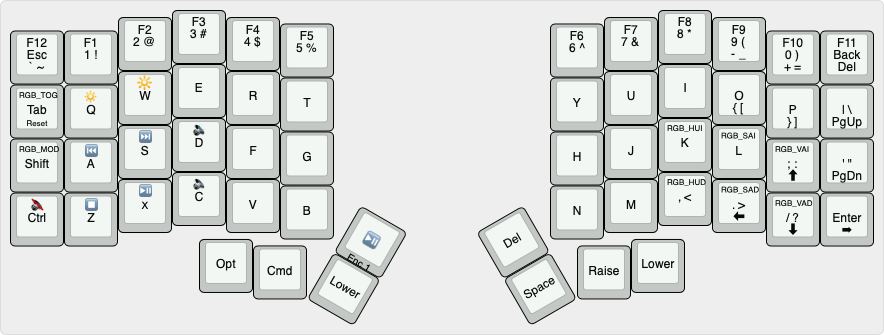
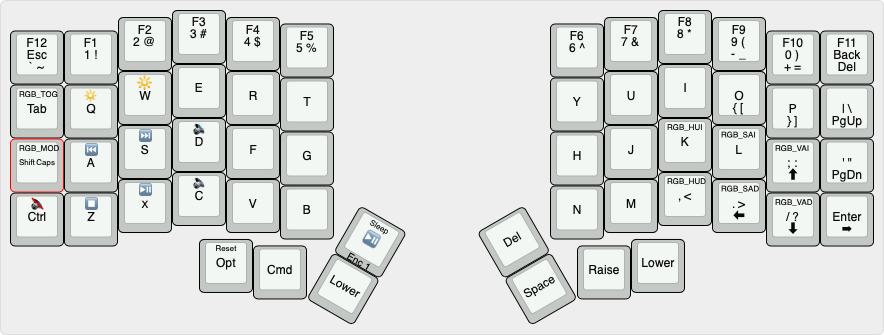
Fine tune and add Tap Dance
* Move reset and sleep to the RAISE layer
* Tap Dance so left shift can also be capslock

diff --git a/keyboards/keebio/iris/keymaps/barrettclark/keymap.c b/keyboards/keebio/iris/keymaps/barrettclark/keymap.c
@@ -1,6 +1,5 @@
 #include QMK_KEYBOARD_H
 
-
 #define _QWERTY 0
 #define _LOWER 1
 #define _RAISE 2
@@ -11,6 +10,17 @@ enum custom_keycodes {
   LOWER,
   RAISE,
   ADJUST,
+};
+
+// Tap Dance declarations
+enum {
+    TD_LS_CL,
+};
+
+// Tap Dance definitions
+qk_tap_dance_action_t tap_dance_actions[] = {
+    // Tap once for Escape, twice for Caps Lock
+    [TD_LS_CL] = ACTION_TAP_DANCE_DOUBLE(KC_LSFT, KC_CAPS),
 };
 
 // https://beta.docs.qmk.fm/using-qmk/simple-keycodes/keycodes
@@ -26,7 +36,7 @@ const uint16_t PROGMEM keymaps[][MATRIX_ROWS][MATRIX_COLS] = {
   //├────────┼────────┼────────┼────────┼────────┼────────┤                          ├────────┼────────┼────────┼────────┼────────┼────────┤
      KC_TAB,  KC_Q,    KC_W,    KC_E,    KC_R,    KC_T,                               KC_Y,    KC_U,    KC_I,    KC_O,    KC_P,    KC_BSLS,
   //├────────┼────────┼────────┼────────┼────────┼────────┤                          ├────────┼────────┼────────┼────────┼────────┼────────┤
-     KC_LSFT, KC_A,    KC_S,    KC_D,    KC_F,    KC_G,                               KC_H,    KC_J,    KC_K,    KC_L,    KC_SCLN, KC_QUOT,
+TD(TD_LS_CL), KC_A,    KC_S,    KC_D,    KC_F,    KC_G,                               KC_H,    KC_J,    KC_K,    KC_L,    KC_SCLN, KC_QUOT,
   //├────────┼────────┼────────┼────────┼────────┼────────┼────────┐        ┌────────┼────────┼────────┼────────┼────────┼────────┼────────┤
      KC_LCTL, KC_Z,    KC_X,    KC_C,    KC_V,    KC_B,    KC_MPLY ,         KC_DEL,  KC_N,    KC_M,    KC_COMM, KC_DOT,  KC_SLSH, KC_ENT,
   //└────────┴────────┴────────┴───┬────┴───┬────┴───┬────┴───┬────┘        └───┬────┴───┬────┴───┬────┴───┬────┴────────┴────────┴────────┘
@@ -38,11 +48,11 @@ const uint16_t PROGMEM keymaps[][MATRIX_ROWS][MATRIX_COLS] = {
   //┌────────┬────────┬────────┬────────┬────────┬────────┐                          ┌────────┬────────┬────────┬────────┬────────┬────────┐
      KC_GRV,  _______, _______, _______, _______, _______,                            _______, _______, _______, KC_MINS, KC_EQL,  KC_DEL,
   //├────────┼────────┼────────┼────────┼────────┼────────┤                          ├────────┼────────┼────────┼────────┼────────┼────────┤
-     RESET,   _______, _______, _______, _______, _______,                            _______, _______, _______, KC_LBRC, KC_RBRC, KC_PGUP,
+     _______, _______, _______, _______, _______, _______,                            _______, _______, _______, KC_LBRC, KC_RBRC, KC_PGUP,
   //├────────┼────────┼────────┼────────┼────────┼────────┤                          ├────────┼────────┼────────┼────────┼────────┼────────┤
      _______, _______, _______, _______, _______, _______,                            _______, _______, _______, _______, KC_UP,   KC_PGDN,
   //├────────┼────────┼────────┼────────┼────────┼────────┼────────┐        ┌────────┼────────┼────────┼────────┼────────┼────────┼────────┤
-     _______, _______, KC_SLEP, _______, _______, _______, _______,          _______, _______, _______, _______, KC_LEFT, KC_DOWN, KC_RGHT,
+     _______, _______, _______, _______, _______, _______, _______,          _______, _______, _______, _______, KC_LEFT, KC_DOWN, KC_RGHT,
   //└────────┴────────┴────────┴───┬────┴───┬────┴───┬────┴───┬────┘        └───┬────┴───┬────┴───┬────┴───┬────┴────────┴────────┴────────┘
                                     _______, _______, _______,                   _______, _______, _______
                                 // └────────┴────────┴────────┘                 └────────┴────────┴────────┘
@@ -56,9 +66,9 @@ const uint16_t PROGMEM keymaps[][MATRIX_ROWS][MATRIX_COLS] = {
   //├────────┼────────┼────────┼────────┼────────┼────────┤                          ├────────┼────────┼────────┼────────┼────────┼────────┤
      RGB_MOD, KC_MPRV, KC_MNXT, KC_VOLU, _______, _______,                            _______, _______, RGB_HUI, RGB_SAI, RGB_VAI, _______,
   //├────────┼────────┼────────┼────────┼────────┼────────┼────────┐        ┌────────┼────────┼────────┼────────┼────────┼────────┼────────┤
-     KC_MUTE, KC_MSTP, KC_MPLY, KC_VOLD, _______, _______, _______,          _______, _______, _______, RGB_HUD, RGB_SAD, RGB_VAD, _______,
+     KC_MUTE, KC_MSTP, KC_MPLY, KC_VOLD, _______, _______, KC_SLEP,          _______, _______, _______, RGB_HUD, RGB_SAD, RGB_VAD, _______,
   //└────────┴────────┴────────┴───┬────┴───┬────┴───┬────┴───┬────┘        └───┬────┴───┬────┴───┬────┴───┬────┴────────┴────────┴────────┘
-                                    _______, _______, _______,                   _______, _______, _______
+                                    RESET,   _______, _______,                   _______, _______, _______
                                 // └────────┴────────┴────────┘                 └────────┴────────┴────────┘
   ),
 

diff --git a/keyboards/keebio/iris/keymaps/barrettclark/config.h b/keyboards/keebio/iris/keymaps/barrettclark/config.h
@@ -19,3 +19,4 @@ along with this program.  If not, see <http://www.gnu.org/licenses/>.
 
 // #define USE_I2C
 #define EE_HANDS
+#define TAPPING_TERM 500
